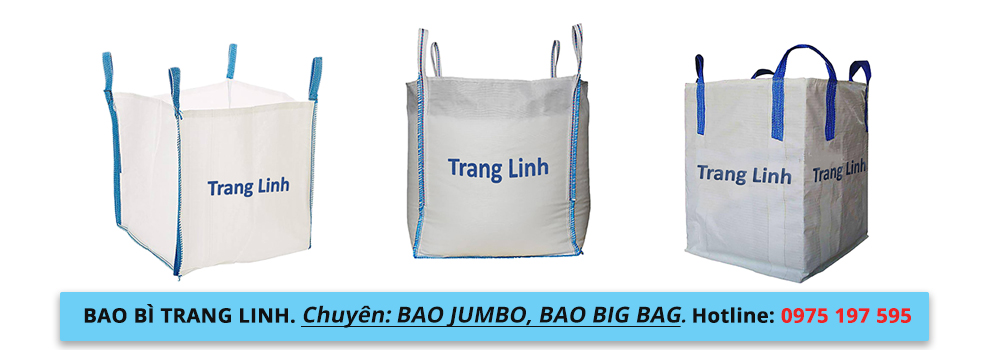
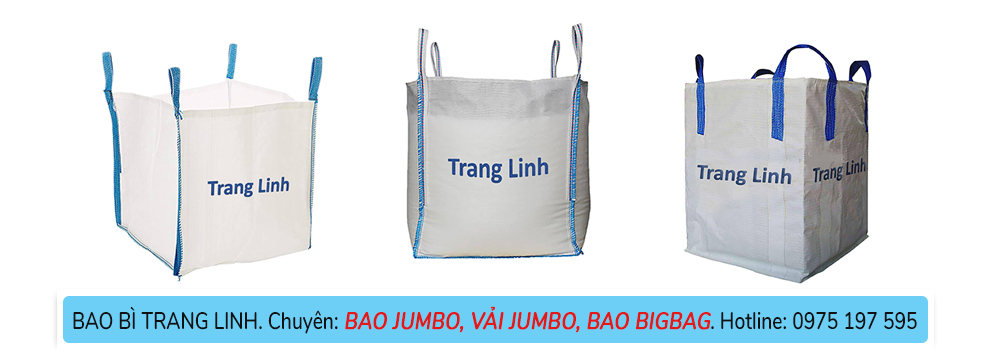
fix category

Changed region(s): [[0.0606, 0.8286, 0.9394, 1.0]]

diff --git a/lien-he.html b/lien-he.html
@@ -54,7 +54,7 @@
                 <div class="dropdown__menu">
                   <div class="dropdown__item sub-menu">
                     <div class="sub-menu__toggle">
-                      <span>BAO JUMBO, CONTAINER, BIGBAG</span>
+                      <span>BAO JUMBO, VẢI JUMBO, BAO BIGBAG</span>
                       <i class="fas fa-caret-right nav__dropdown-icon"></i>
                     </div>
                     <div class="sub-menu__list">
@@ -126,7 +126,7 @@
                 </button>
               </div>
               <div class="list">
-                <div class="list__title mb-2">BAO JUMBO, CONTAINER, BIGBAG</div>
+                <div class="list__title mb-2">BAO JUMBO, VẢI JUMBO, BAO BIGBAG</div>
                 <ul class="list__content">
                   <div class="list__item">
                     <a class="list__anchor" href="bao-jumbo-dung-nong-san.html">Bao Jumbo Đựng Nông Sản</a>
@@ -228,7 +228,7 @@
                       <span>Di động: 0904 133 435</span>
                     </div>
                   </div>
-                  <div class="col-sm-6">
+                  <div class="col-sm-6 mt-3 mt-sm-0">
                     <div class="info">
                       <p class="mb-1">
                         <span class="info__title">Điện Thoại:</span>
@@ -238,7 +238,7 @@
                         347245</p>
                       <p class="mb-1">
                         <span class="info__title">Email:</span>
-                        <a href="chimsedinangidol@gmail.com">chimsedinangidol@gmail.com</a>
+                        <a href="baobitranglinh@gmail.com">baobitranglinh@gmail.com</a>
                       </p>
                       <p class="mb-1">
                         <span class="info__title">Địa chỉ:</span>
@@ -265,7 +265,7 @@
                       347245</p>
                     <p class="mb-1">
                       <span class="info__title">Email:</span>
-                      <a href="chimsedinangidol@gmail.com">chimsedinangidol@gmail.com</a>
+                      <a href="baobitranglinh@gmail.com">baobitranglinh@gmail.com</a>
                     </p>
                     <p class="mb-1">
                       <span class="info__title">Website:</span>
@@ -297,7 +297,7 @@
           347245
           <br/>
           <span class="font-weight-md">Email:</span>
-          <a href="mailto:chimsedinangidol@gmail.com">chimsedinangidol@gmail.com</a>
+          <a href="mailto:baobitranglinh@gmail.com">baobitranglinh@gmail.com</a>
           -
           <span class="span font-weight-md">Website:</span>
           <a href="https://baobitranglinh.com">https://baobitranglinh.com</a>

diff --git a/index.html b/index.html
@@ -54,7 +54,7 @@
                 <div class="dropdown__menu">
                   <div class="dropdown__item sub-menu">
                     <div class="sub-menu__toggle">
-                      <span>BAO JUMBO, CONTAINER, BIGBAG</span>
+                      <span>BAO JUMBO, VẢI JUMBO, BAO BIGBAG</span>
                       <i class="fas fa-caret-right nav__dropdown-icon"></i>
                     </div>
                     <div class="sub-menu__list">
@@ -119,6 +119,7 @@
         <div class="highlight mb-4 d-none d-md-block">
           <p class="highlight__text mb-0">Nhà Sản Xuất & Cung Cấp:
             <strong>BAO JUMBO,</strong>
+            <strong>VẢI JUMBO,</strong>
             <strong>BAO BIGBAG</strong>
             phục vụ các ngành nông sản, khoáng sản, hóa chất, phế liệu,...</p>
           <img class="highlight__symbol" src="imgs/Package.png" alt="bao bì" />
@@ -174,7 +175,7 @@
                 </button>
               </div>
               <div class="list">
-                <div class="list__title mb-2">BAO JUMBO, CONTAINER, BIGBAG</div>
+                <div class="list__title mb-2">BAO JUMBO, VẢI JUMBO, BAO BIGBAG</div>
                 <ul class="list__content">
                   <div class="list__item">
                     <a class="list__anchor" href="bao-jumbo-dung-nong-san.html">Bao Jumbo Đựng Nông Sản</a>
@@ -262,7 +263,7 @@
                 <div class="addthis_inline_share_toolbox"></div>
               </div>
               <section class="group">
-                <div class="group__title h5 text-uppercase">BAO JUMBO, CONTAINER, BIGBAG</div>
+                <div class="group__title h5 text-uppercase">BAO JUMBO, VẢI JUMBO, BAO BIGBAG</div>
                 <div class="group__content">
                   <div class="row">
                     <div class="col-6 col-md-4">
@@ -450,7 +451,7 @@
           347245
           <br/>
           <span class="font-weight-md">Email:</span>
-          <a href="mailto:chimsedinangidol@gmail.com">chimsedinangidol@gmail.com</a>
+          <a href="mailto:baobitranglinh@gmail.com">baobitranglinh@gmail.com</a>
           -
           <span class="span font-weight-md">Website:</span>
           <a href="https://baobitranglinh.com">https://baobitranglinh.com</a>

diff --git a/bao-jumbo-dong-bap-u-chua.html b/bao-jumbo-dong-bap-u-chua.html
@@ -54,7 +54,7 @@
                 <div class="dropdown__menu">
                   <div class="dropdown__item sub-menu">
                     <div class="sub-menu__toggle">
-                      <span>BAO JUMBO, CONTAINER, BIGBAG</span>
+                      <span>BAO JUMBO, VẢI JUMBO, BAO BIGBAG</span>
                       <i class="fas fa-caret-right nav__dropdown-icon"></i>
                     </div>
                     <div class="sub-menu__list">
@@ -126,7 +126,7 @@
                 </button>
               </div>
               <div class="list">
-                <div class="list__title mb-2">BAO JUMBO, CONTAINER, BIGBAG</div>
+                <div class="list__title mb-2">BAO JUMBO, VẢI JUMBO, BAO BIGBAG</div>
                 <ul class="list__content">
                   <div class="list__item">
                     <a class="list__anchor" href="bao-jumbo-dung-nong-san.html">Bao Jumbo Đựng Nông Sản</a>
@@ -289,7 +289,7 @@
           347245
           <br/>
           <span class="font-weight-md">Email:</span>
-          <a href="mailto:chimsedinangidol@gmail.com">chimsedinangidol@gmail.com</a>
+          <a href="mailto:baobitranglinh@gmail.com">baobitranglinh@gmail.com</a>
           -
           <span class="span font-weight-md">Website:</span>
           <a href="https://baobitranglinh.com">https://baobitranglinh.com</a>

diff --git a/bao-jumbo-dung-chau-vien-nen-mun-cua-vo-hat.html b/bao-jumbo-dung-chau-vien-nen-mun-cua-vo-hat.html
@@ -54,7 +54,7 @@
                 <div class="dropdown__menu">
                   <div class="dropdown__item sub-menu">
                     <div class="sub-menu__toggle">
-                      <span>BAO JUMBO, CONTAINER, BIGBAG</span>
+                      <span>BAO JUMBO, VẢI JUMBO, BAO BIGBAG</span>
                       <i class="fas fa-caret-right nav__dropdown-icon"></i>
                     </div>
                     <div class="sub-menu__list">
@@ -126,7 +126,7 @@
                 </button>
               </div>
               <div class="list">
-                <div class="list__title mb-2">BAO JUMBO, CONTAINER, BIGBAG</div>
+                <div class="list__title mb-2">BAO JUMBO, VẢI JUMBO, BAO BIGBAG</div>
                 <ul class="list__content">
                   <div class="list__item">
                     <a class="list__anchor" href="bao-jumbo-dung-nong-san.html">Bao Jumbo Đựng Nông Sản</a>
@@ -289,7 +289,7 @@
           347245
           <br/>
           <span class="font-weight-md">Email:</span>
-          <a href="mailto:chimsedinangidol@gmail.com">chimsedinangidol@gmail.com</a>
+          <a href="mailto:baobitranglinh@gmail.com">baobitranglinh@gmail.com</a>
           -
           <span class="span font-weight-md">Website:</span>
           <a href="https://baobitranglinh.com">https://baobitranglinh.com</a>

diff --git a/bao-jumbo-dung-dat-hiem.html b/bao-jumbo-dung-dat-hiem.html
@@ -54,7 +54,7 @@
                 <div class="dropdown__menu">
                   <div class="dropdown__item sub-menu">
                     <div class="sub-menu__toggle">
-                      <span>BAO JUMBO, CONTAINER, BIGBAG</span>
+                      <span>BAO JUMBO, VẢI JUMBO, BAO BIGBAG</span>
                       <i class="fas fa-caret-right nav__dropdown-icon"></i>
                     </div>
                     <div class="sub-menu__list">
@@ -126,7 +126,7 @@
                 </button>
               </div>
               <div class="list">
-                <div class="list__title mb-2">BAO JUMBO, CONTAINER, BIGBAG</div>
+                <div class="list__title mb-2">BAO JUMBO, VẢI JUMBO, BAO BIGBAG</div>
                 <ul class="list__content">
                   <div class="list__item">
                     <a class="list__anchor" href="bao-jumbo-dung-nong-san.html">Bao Jumbo Đựng Nông Sản</a>
@@ -289,7 +289,7 @@
           347245
           <br/>
           <span class="font-weight-md">Email:</span>
-          <a href="mailto:chimsedinangidol@gmail.com">chimsedinangidol@gmail.com</a>
+          <a href="mailto:baobitranglinh@gmail.com">baobitranglinh@gmail.com</a>
           -
           <span class="span font-weight-md">Website:</span>
           <a href="https://baobitranglinh.com">https://baobitranglinh.com</a>

diff --git a/bao-jumbo-dung-hat-nhua.html b/bao-jumbo-dung-hat-nhua.html
@@ -54,7 +54,7 @@
                 <div class="dropdown__menu">
                   <div class="dropdown__item sub-menu">
                     <div class="sub-menu__toggle">
-                      <span>BAO JUMBO, CONTAINER, BIGBAG</span>
+                      <span>BAO JUMBO, VẢI JUMBO, BAO BIGBAG</span>
                       <i class="fas fa-caret-right nav__dropdown-icon"></i>
                     </div>
                     <div class="sub-menu__list">
@@ -126,7 +126,7 @@
                 </button>
               </div>
               <div class="list">
-                <div class="list__title mb-2">BAO JUMBO, CONTAINER, BIGBAG</div>
+                <div class="list__title mb-2">BAO JUMBO, VẢI JUMBO, BAO BIGBAG</div>
                 <ul class="list__content">
                   <div class="list__item">
                     <a class="list__anchor" href="bao-jumbo-dung-nong-san.html">Bao Jumbo Đựng Nông Sản</a>
@@ -289,7 +289,7 @@
           347245
           <br/>
           <span class="font-weight-md">Email:</span>
-          <a href="mailto:chimsedinangidol@gmail.com">chimsedinangidol@gmail.com</a>
+          <a href="mailto:baobitranglinh@gmail.com">baobitranglinh@gmail.com</a>
           -
           <span class="span font-weight-md">Website:</span>
           <a href="https://baobitranglinh.com">https://baobitranglinh.com</a>

diff --git a/bao-jumbo-dung-hoa-chat.html b/bao-jumbo-dung-hoa-chat.html
@@ -54,7 +54,7 @@
                 <div class="dropdown__menu">
                   <div class="dropdown__item sub-menu">
                     <div class="sub-menu__toggle">
-                      <span>BAO JUMBO, CONTAINER, BIGBAG</span>
+                      <span>BAO JUMBO, VẢI JUMBO, BAO BIGBAG</span>
                       <i class="fas fa-caret-right nav__dropdown-icon"></i>
                     </div>
                     <div class="sub-menu__list">
@@ -126,7 +126,7 @@
                 </button>
               </div>
               <div class="list">
-                <div class="list__title mb-2">BAO JUMBO, CONTAINER, BIGBAG</div>
+                <div class="list__title mb-2">BAO JUMBO, VẢI JUMBO, BAO BIGBAG</div>
                 <ul class="list__content">
                   <div class="list__item">
                     <a class="list__anchor" href="bao-jumbo-dung-nong-san.html">Bao Jumbo Đựng Nông Sản</a>
@@ -289,7 +289,7 @@
           347245
           <br/>
           <span class="font-weight-md">Email:</span>
-          <a href="mailto:chimsedinangidol@gmail.com">chimsedinangidol@gmail.com</a>
+          <a href="mailto:baobitranglinh@gmail.com">baobitranglinh@gmail.com</a>
           -
           <span class="span font-weight-md">Website:</span>
           <a href="https://baobitranglinh.com">https://baobitranglinh.com</a>

diff --git a/bao-jumbo-dung-khoang-san.html b/bao-jumbo-dung-khoang-san.html
@@ -54,7 +54,7 @@
                 <div class="dropdown__menu">
                   <div class="dropdown__item sub-menu">
                     <div class="sub-menu__toggle">
-                      <span>BAO JUMBO, CONTAINER, BIGBAG</span>
+                      <span>BAO JUMBO, VẢI JUMBO, BAO BIGBAG</span>
                       <i class="fas fa-caret-right nav__dropdown-icon"></i>
                     </div>
                     <div class="sub-menu__list">
@@ -126,7 +126,7 @@
                 </button>
               </div>
               <div class="list">
-                <div class="list__title mb-2">BAO JUMBO, CONTAINER, BIGBAG</div>
+                <div class="list__title mb-2">BAO JUMBO, VẢI JUMBO, BAO BIGBAG</div>
                 <ul class="list__content">
                   <div class="list__item">
                     <a class="list__anchor" href="bao-jumbo-dung-nong-san.html">Bao Jumbo Đựng Nông Sản</a>
@@ -289,7 +289,7 @@
           347245
           <br/>
           <span class="font-weight-md">Email:</span>
-          <a href="mailto:chimsedinangidol@gmail.com">chimsedinangidol@gmail.com</a>
+          <a href="mailto:baobitranglinh@gmail.com">baobitranglinh@gmail.com</a>
           -
           <span class="span font-weight-md">Website:</span>
           <a href="https://baobitranglinh.com">https://baobitranglinh.com</a>

diff --git a/bao-jumbo-dung-nong-san.html b/bao-jumbo-dung-nong-san.html
@@ -54,7 +54,7 @@
                 <div class="dropdown__menu">
                   <div class="dropdown__item sub-menu">
                     <div class="sub-menu__toggle">
-                      <span>BAO JUMBO, CONTAINER, BIGBAG</span>
+                      <span>BAO JUMBO, VẢI JUMBO, BAO BIGBAG</span>
                       <i class="fas fa-caret-right nav__dropdown-icon"></i>
                     </div>
                     <div class="sub-menu__list">
@@ -126,7 +126,7 @@
                 </button>
               </div>
               <div class="list">
-                <div class="list__title mb-2">BAO JUMBO, CONTAINER, BIGBAG</div>
+                <div class="list__title mb-2">BAO JUMBO, VẢI JUMBO, BAO BIGBAG</div>
                 <ul class="list__content">
                   <div class="list__item">
                     <a class="list__anchor" href="bao-jumbo-dung-nong-san.html">Bao Jumbo Đựng Nông Sản</a>
@@ -289,7 +289,7 @@
           347245
           <br/>
           <span class="font-weight-md">Email:</span>
-          <a href="mailto:chimsedinangidol@gmail.com">chimsedinangidol@gmail.com</a>
+          <a href="mailto:baobitranglinh@gmail.com">baobitranglinh@gmail.com</a>
           -
           <span class="span font-weight-md">Website:</span>
           <a href="https://baobitranglinh.com">https://baobitranglinh.com</a>

diff --git a/bao-jumbo-dung-phe-lieu.html b/bao-jumbo-dung-phe-lieu.html
@@ -54,7 +54,7 @@
                 <div class="dropdown__menu">
                   <div class="dropdown__item sub-menu">
                     <div class="sub-menu__toggle">
-                      <span>BAO JUMBO, CONTAINER, BIGBAG</span>
+                      <span>BAO JUMBO, VẢI JUMBO, BAO BIGBAG</span>
                       <i class="fas fa-caret-right nav__dropdown-icon"></i>
                     </div>
                     <div class="sub-menu__list">
@@ -126,7 +126,7 @@
                 </button>
               </div>
               <div class="list">
-                <div class="list__title mb-2">BAO JUMBO, CONTAINER, BIGBAG</div>
+                <div class="list__title mb-2">BAO JUMBO, VẢI JUMBO, BAO BIGBAG</div>
                 <ul class="list__content">
                   <div class="list__item">
                     <a class="list__anchor" href="bao-jumbo-dung-nong-san.html">Bao Jumbo Đựng Nông Sản</a>
@@ -289,7 +289,7 @@
           347245
           <br/>
           <span class="font-weight-md">Email:</span>
-          <a href="mailto:chimsedinangidol@gmail.com">chimsedinangidol@gmail.com</a>
+          <a href="mailto:baobitranglinh@gmail.com">baobitranglinh@gmail.com</a>
           -
           <span class="span font-weight-md">Website:</span>
           <a href="https://baobitranglinh.com">https://baobitranglinh.com</a>

diff --git a/bao-jumbo-dung-phu-gia-xay-dung.html b/bao-jumbo-dung-phu-gia-xay-dung.html
@@ -54,7 +54,7 @@
                 <div class="dropdown__menu">
                   <div class="dropdown__item sub-menu">
                     <div class="sub-menu__toggle">
-                      <span>BAO JUMBO, CONTAINER, BIGBAG</span>
+                      <span>BAO JUMBO, VẢI JUMBO, BAO BIGBAG</span>
                       <i class="fas fa-caret-right nav__dropdown-icon"></i>
                     </div>
                     <div class="sub-menu__list">
@@ -126,7 +126,7 @@
                 </button>
               </div>
               <div class="list">
-                <div class="list__title mb-2">BAO JUMBO, CONTAINER, BIGBAG</div>
+                <div class="list__title mb-2">BAO JUMBO, VẢI JUMBO, BAO BIGBAG</div>
                 <ul class="list__content">
                   <div class="list__item">
                     <a class="list__anchor" href="bao-jumbo-dung-nong-san.html">Bao Jumbo Đựng Nông Sản</a>
@@ -289,7 +289,7 @@
           347245
           <br/>
           <span class="font-weight-md">Email:</span>
-          <a href="mailto:chimsedinangidol@gmail.com">chimsedinangidol@gmail.com</a>
+          <a href="mailto:baobitranglinh@gmail.com">baobitranglinh@gmail.com</a>
           -
           <span class="span font-weight-md">Website:</span>
           <a href="https://baobitranglinh.com">https://baobitranglinh.com</a>

diff --git a/gioi-thieu.html b/gioi-thieu.html
@@ -54,7 +54,7 @@
                 <div class="dropdown__menu">
                   <div class="dropdown__item sub-menu">
                     <div class="sub-menu__toggle">
-                      <span>BAO JUMBO, CONTAINER, BIGBAG</span>
+                      <span>BAO JUMBO, VẢI JUMBO, BAO BIGBAG</span>
                       <i class="fas fa-caret-right nav__dropdown-icon"></i>
                     </div>
                     <div class="sub-menu__list">
@@ -126,7 +126,7 @@
                 </button>
               </div>
               <div class="list">
-                <div class="list__title mb-2">BAO JUMBO, CONTAINER, BIGBAG</div>
+                <div class="list__title mb-2">BAO JUMBO, VẢI JUMBO, BAO BIGBAG</div>
                 <ul class="list__content">
                   <div class="list__item">
                     <a class="list__anchor" href="bao-jumbo-dung-nong-san.html">Bao Jumbo Đựng Nông Sản</a>
@@ -237,7 +237,7 @@
           347245
           <br/>
           <span class="font-weight-md">Email:</span>
-          <a href="mailto:chimsedinangidol@gmail.com">chimsedinangidol@gmail.com</a>
+          <a href="mailto:baobitranglinh@gmail.com">baobitranglinh@gmail.com</a>
           -
           <span class="span font-weight-md">Website:</span>
           <a href="https://baobitranglinh.com">https://baobitranglinh.com</a>
